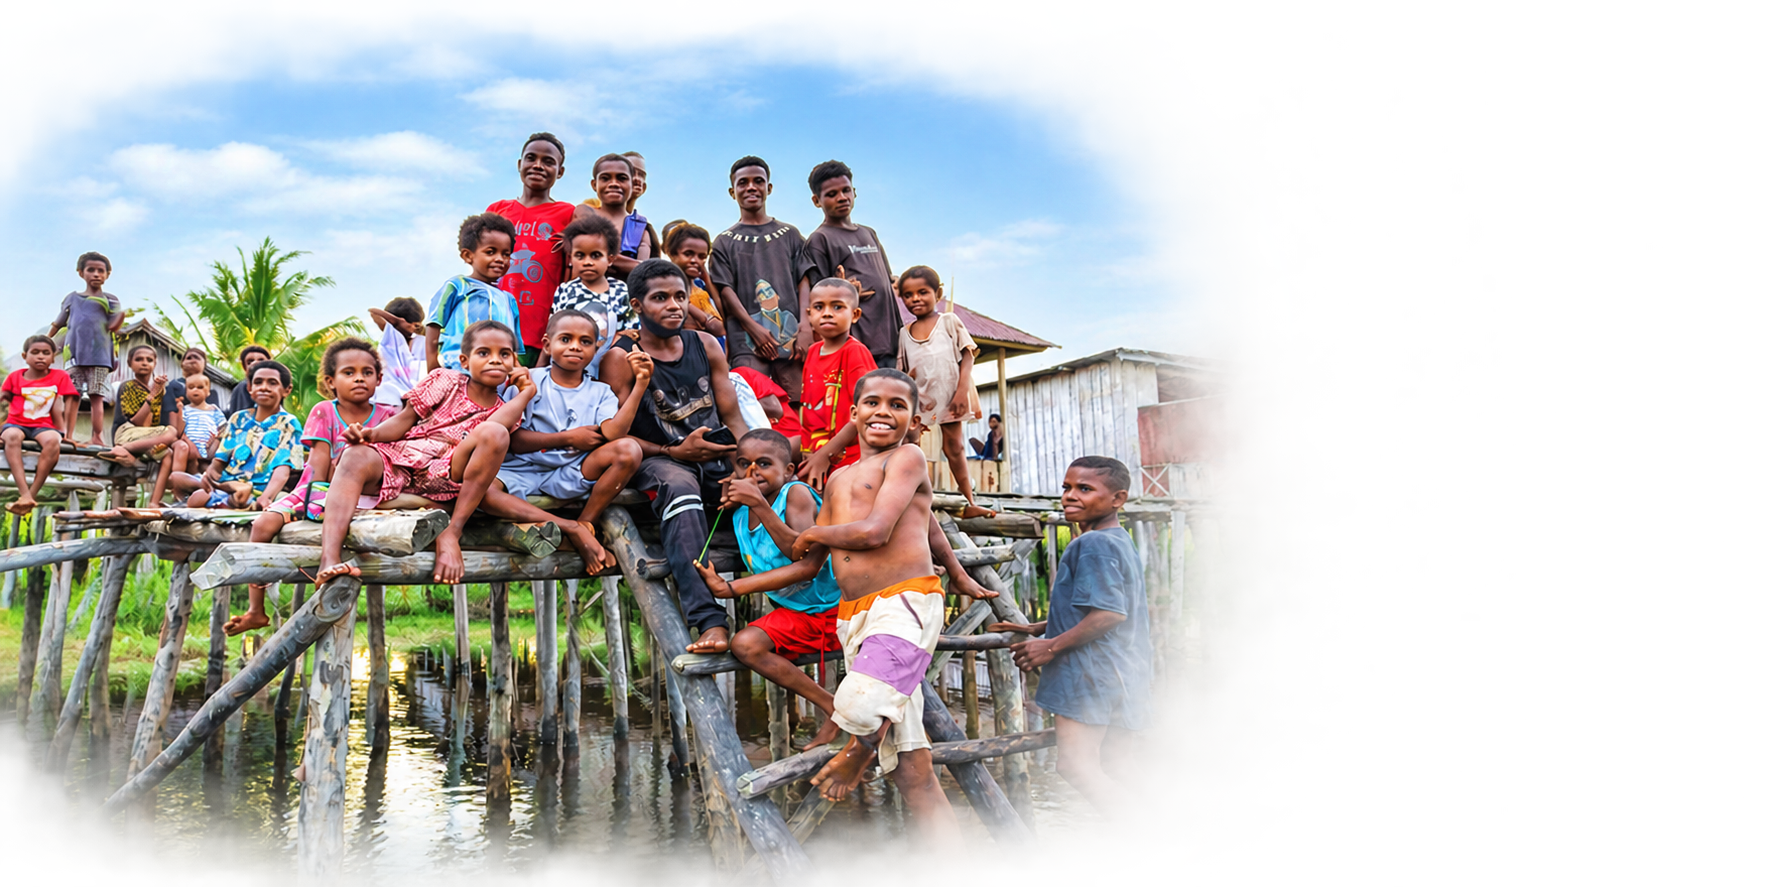
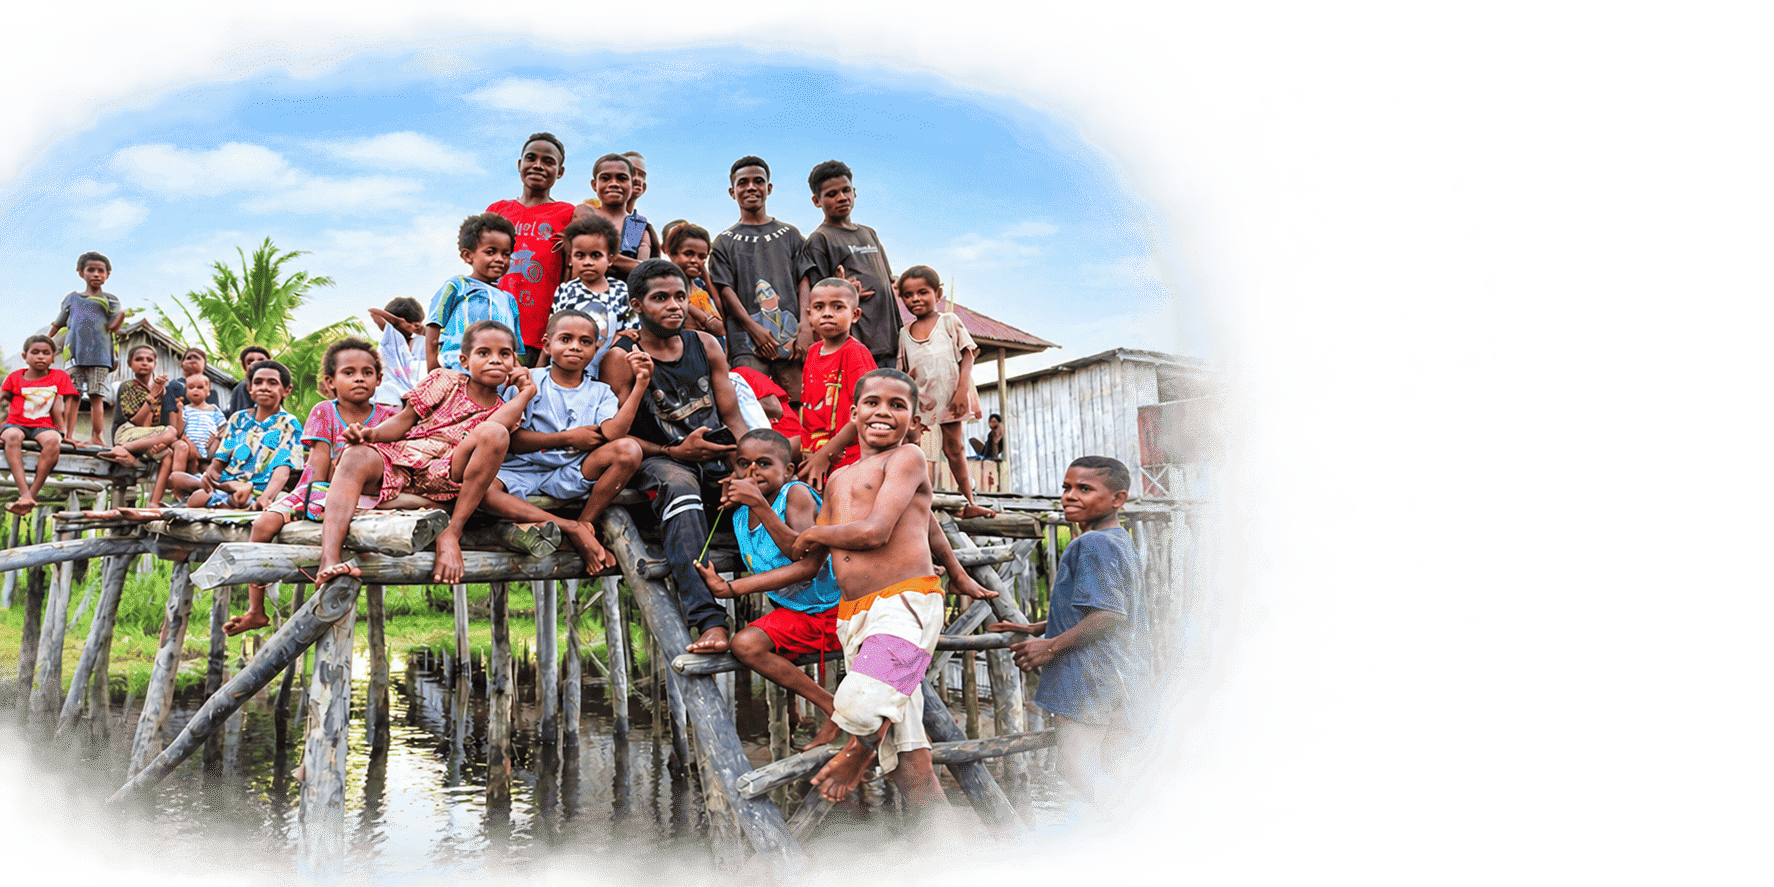
Perbaiki tampilan gambar

diff --git a/index.html b/index.html
@@ -143,7 +143,7 @@
 
     <section class="testimony">
         <div class="testimony-image">
-            <img src="img/foto latar/Community Portrait on Stilts.png" alt="">
+            <img src="asset/img/foto latar/Community Portrait on Stilts.png" alt="">
         </div>
 
         <div class="testimony-content">
@@ -165,7 +165,7 @@
 
     <section class="container-aktivitas-terkini">
         <div class="box-preview">
-            <img src="img/dokumentasi kegiatan/kabar terbaru/cerita injil di minyambow.jpeg" alt="tim hatam">
+            <img src="asset/img/dokumentasi kegiatan/kabar terbaru/cerita injil di minyambow.jpeg" alt="tim hatam">
             <div class="box-preview-judul">
                 <a href="news/2023/cerita-injil-di-minyambouw.html" class="dark-link">Cerita Injil di Minyambouw</a>
             </div>
@@ -181,7 +181,7 @@
             
         </div>
         <div class="box-preview">
-            <img src="img/dokumentasi kegiatan/kabar terbaru/cerita alkitab bahasa mpur.png" alt="tim mpur">
+            <img src="asset/img/dokumentasi kegiatan/kabar terbaru/cerita alkitab bahasa mpur.png" alt="tim mpur">
             <div class="box-preview-judul">
                 <a href="news/2023/pelatihan-penggunaan-alkitab-lisan-bahasa-mpur.html" class="dark-link">Pelatihan Penggunaan Alkitab Lisan Bahasa Mpur</a>
             </div>
@@ -197,7 +197,7 @@
             
         </div>
         <div class="box-preview">
-            <img src="img/dokumentasi kegiatan/kabar terbaru/pelatihan fasilitator.webp" alt="pelatihan fasilitator">
+            <img src="asset/img/dokumentasi kegiatan/kabar terbaru/pelatihan fasilitator.webp" alt="pelatihan fasilitator">
             <div class="box-preview-judul">
                 <a href="kabar-ymp3.html" class="dark-link">Pelatihan Fasilitator</a>
             </div>
@@ -252,7 +252,7 @@
 
             <!-- kolom 1 -->
              <div class="footer-col">
-                <img src="img/ymp3.png" alt="YMP3" class="footer-logo" width="80">
+                <img src="asset/img/icon/ymp3.png" alt="YMP3" class="footer-logo" width="80">
 
                 <p>&#169 <!-- logo copyright --> 2026 YMP3 <br>
                 Yayasan Misi Penginjilan <br> Pemuridan Papua</p>

diff --git a/bersama-ymp3.html b/bersama-ymp3.html
@@ -119,7 +119,7 @@
 
             <!-- kolom 1 -->
              <div class="footer-col">
-                <img src="img/ymp3.png" alt="YMP3" class="footer-logo" width="80">
+                <img src="asset/img/icon/ymp3.png" alt="YMP3" class="footer-logo" width="80">
 
                 <p>&#169 <!-- logo copyright --> 2026 YMP3 <br>
                 Yayasan Misi Penginjilan <br> Pemuridan Papua</p>

diff --git a/sorotan.html b/sorotan.html
@@ -164,7 +164,7 @@
 
             <!-- kolom 1 -->
              <div class="footer-col">
-                <img src="img/ymp3.png" alt="YMP3" class="footer-logo" width="80">
+                <img src="asset/img/icon/ymp3.png" alt="YMP3" class="footer-logo" width="80">
 
                 <p>&#169 <!-- logo copyright --> 2026 YMP3 <br>
                 Yayasan Misi Penginjilan <br> Pemuridan Papua</p>

diff --git a/tentang-ymp3.html b/tentang-ymp3.html
@@ -457,7 +457,7 @@
 
             <!-- kolom 1 -->
              <div class="footer-col">
-                <img src="img/ymp3.png" alt="YMP3" class="footer-logo" width="80">
+                <img src="asset/img/icon/ymp3.png" alt="YMP3" class="footer-logo" width="80">
 
                 <p>&#169 <!-- logo copyright --> 2026 YMP3 <br>
                 Yayasan Misi Penginjilan <br> Pemuridan Papua</p>
